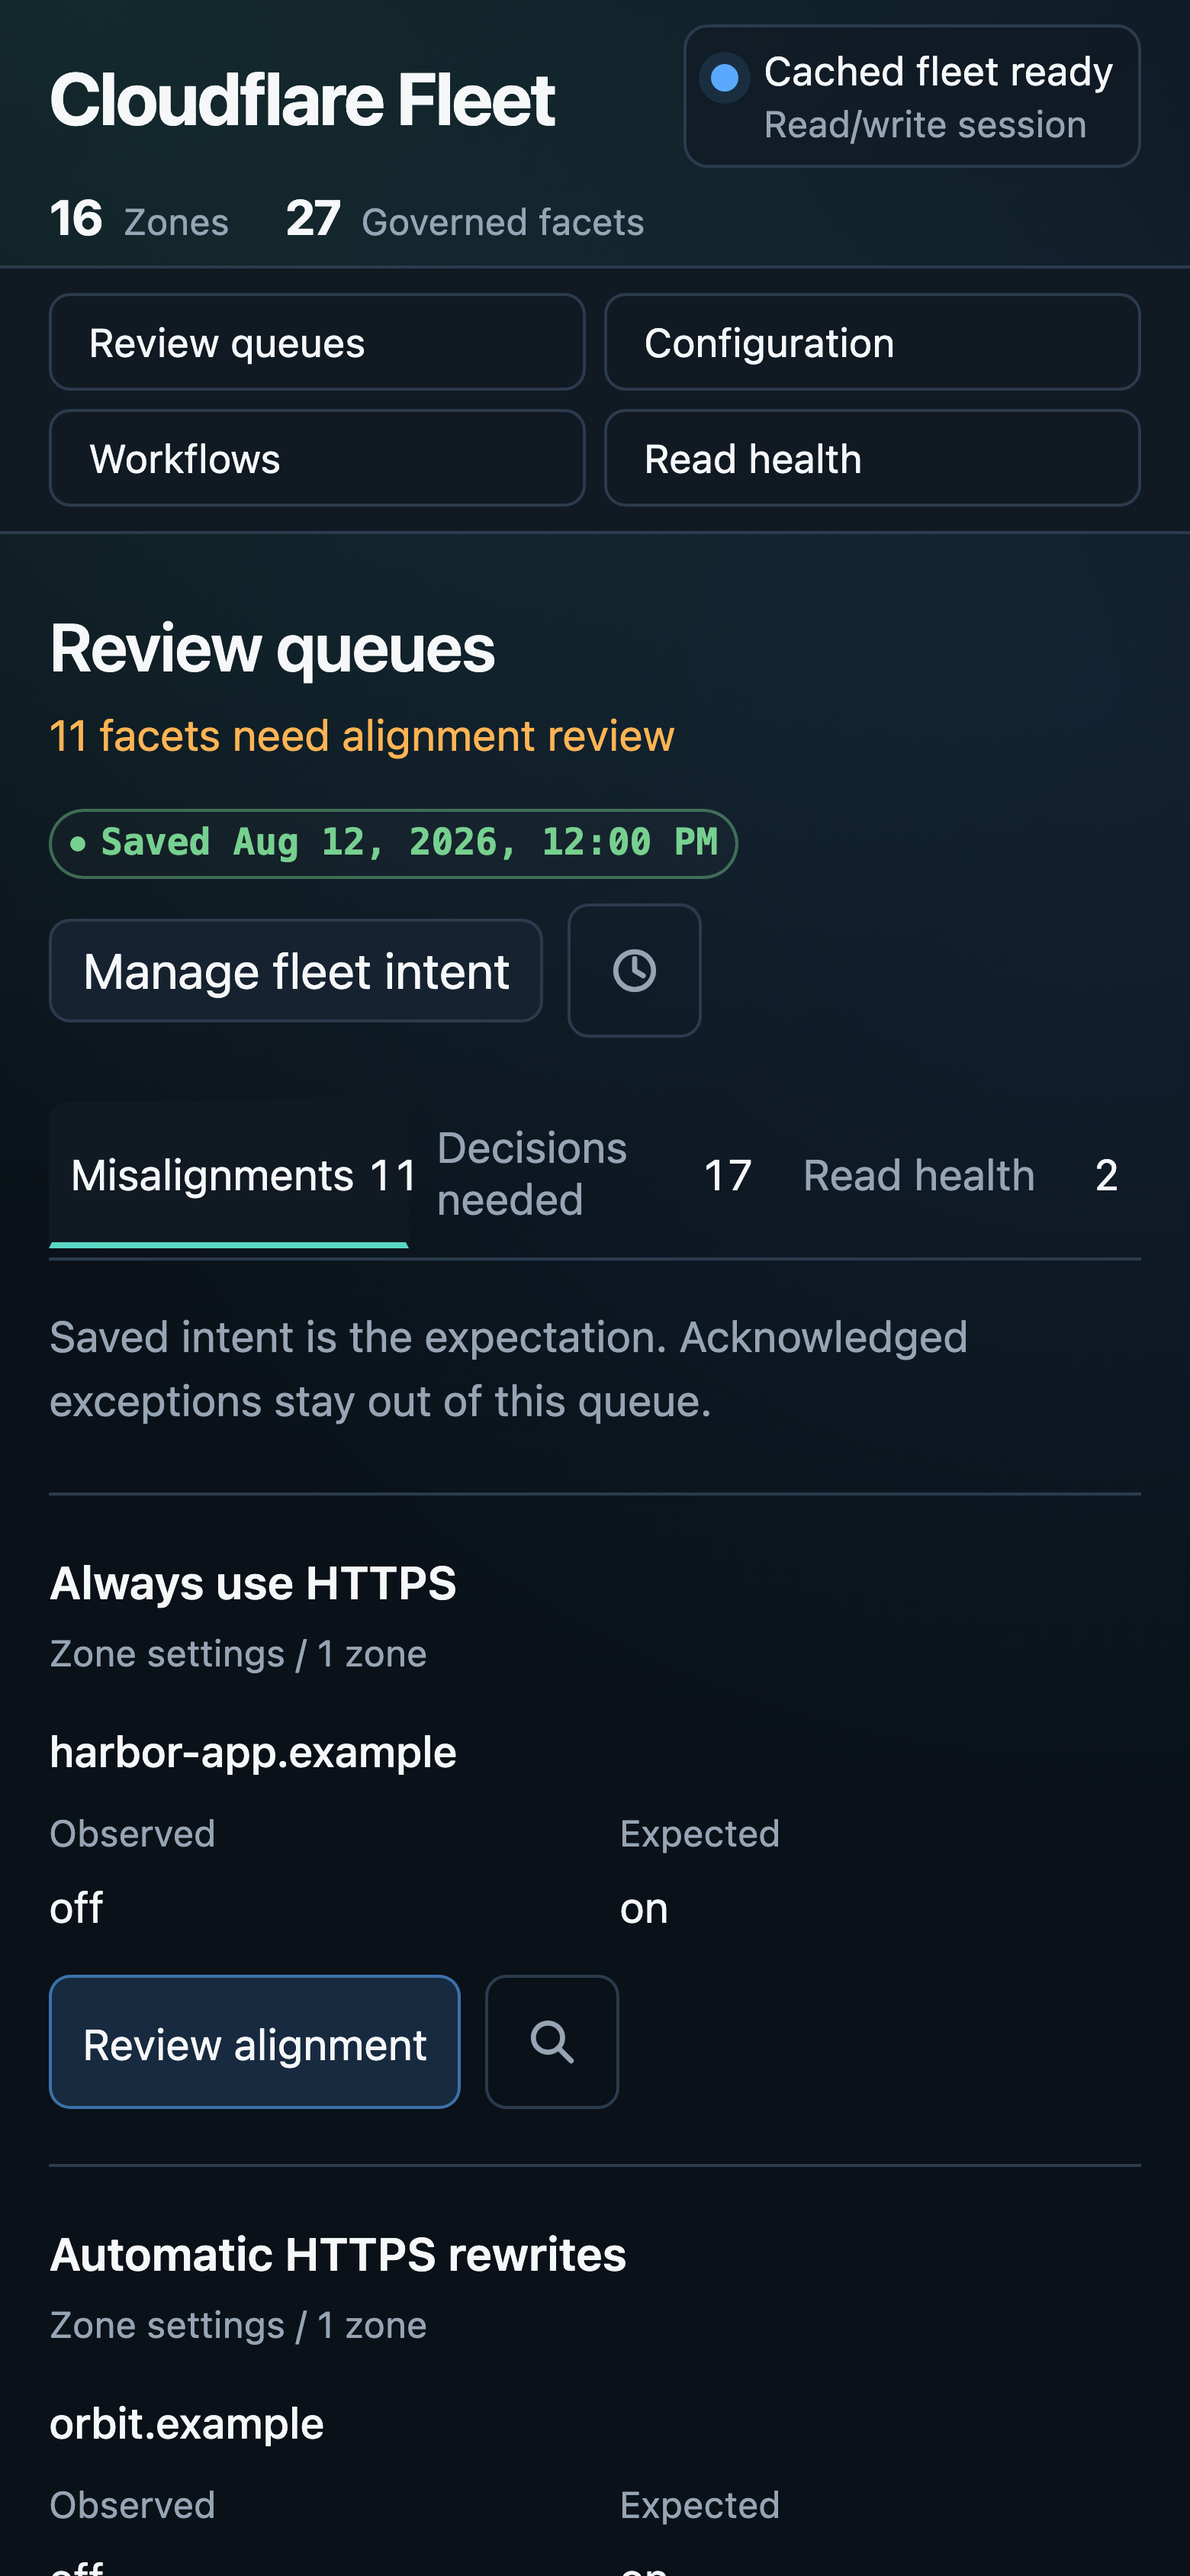
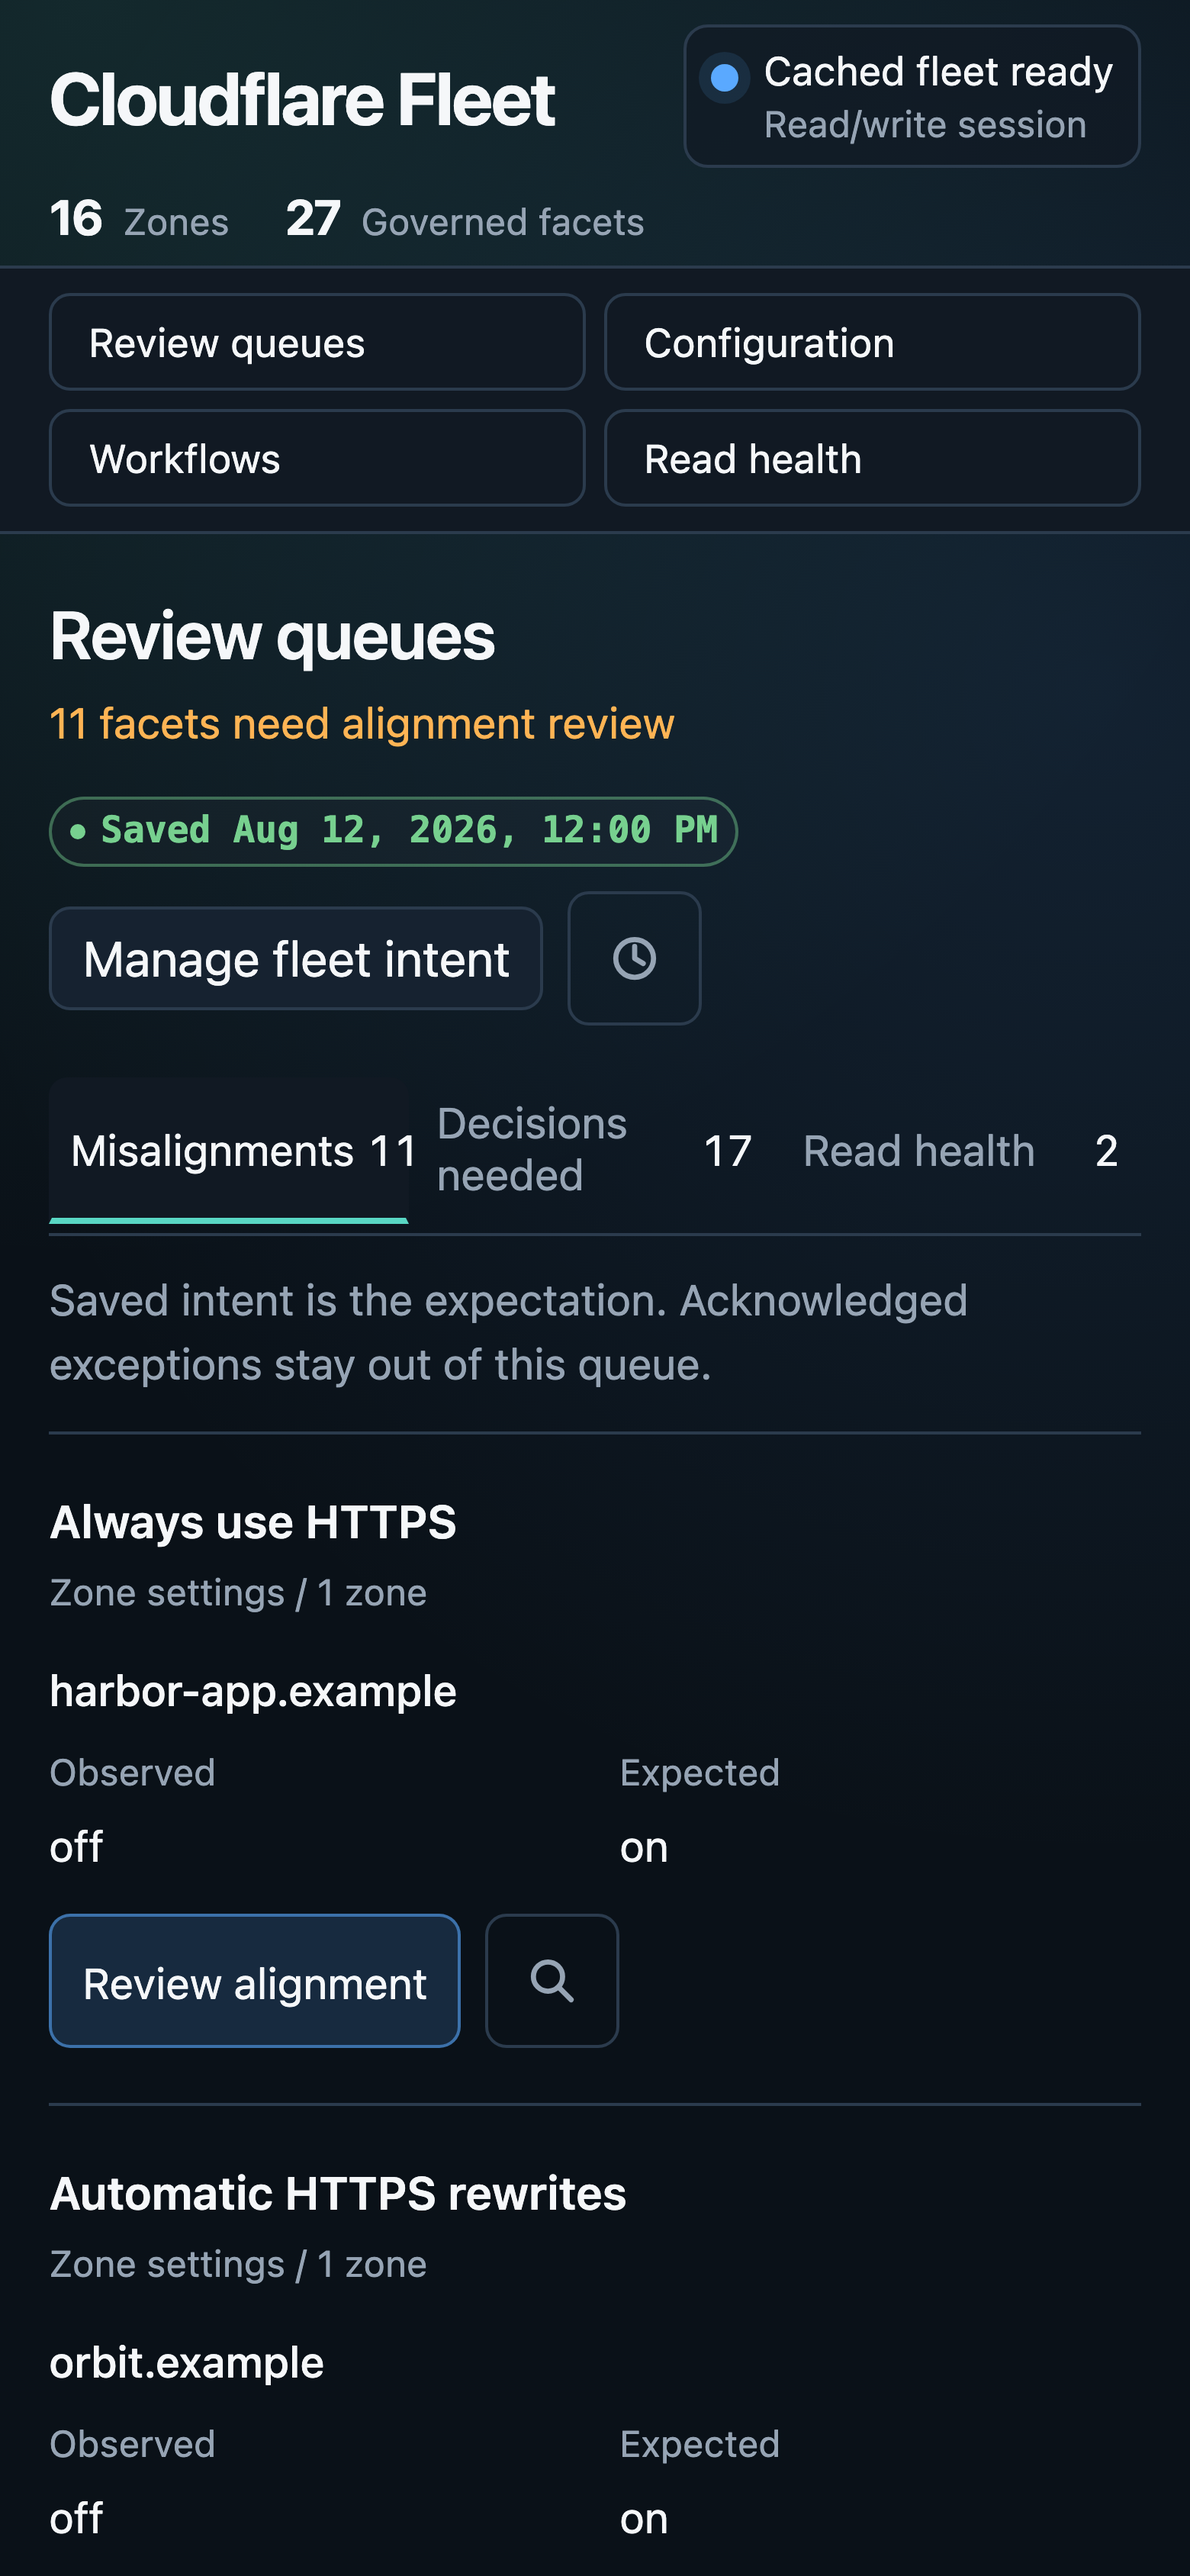
fix(ui): keep phone queue actions within view

diff --git a/styles.css b/styles.css
@@ -8587,7 +8587,7 @@ textarea {
   }
 
   .review-heading {
-    margin: 12px 0 16px;
+    margin: 8px 0 12px;
   }
 
   .review-heading h2 {
@@ -8596,6 +8596,10 @@ textarea {
 
   .review-heading-actions {
     gap: 8px;
+  }
+
+  .queue-context {
+    margin: 10px 0 12px;
   }
 
   .review-queue-tabs {
